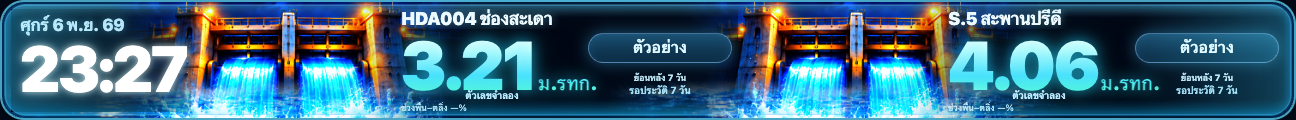
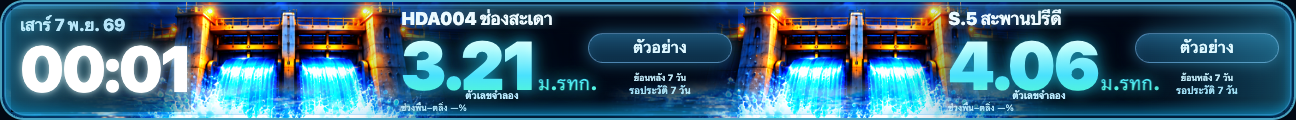
preview(led): three-page before-after alignment approval inspector

Changed region(s): [[0.0, 0.35, 0.3395, 1.0], [0.4938, 0.525, 0.8025, 1.0], [0.0, 0.125, 0.0926, 0.275]]

diff --git a/typography-review-20261106/index.html b/typography-review-20261106/index.html
@@ -24,9 +24,10 @@ button:focus-visible{outline:2px solid white;outline-offset:2px}
 .view img{display:block;max-width:none;image-rendering:auto;border-radius:5px;height:auto}
 .frame{position:relative;max-width:none;width:max-content;margin:3px 0 10px}
 .frame-caption{font-size:11px;letter-spacing:.05em;color:#a4e2fa;margin-bottom:4px;font-weight:850}
+.screen{position:relative;width:max-content}
 .center-guide{pointer-events:none;position:absolute;left:0;right:0;top:50%;border-top:1px dashed rgba(255,212,100,.85);display:none;z-index:2}
 body.guides .center-guide{display:block}
-body.guides .frame{outline:1px dashed #e2bb5499}
+body.guides .screen{outline:1px dashed #e2bb5499}
 
 .detail{font-size:12px;color:#8caec4;margin-top:5px}
 .grid{display:grid;grid-template-columns:repeat(auto-fit,minmax(240px,1fr));gap:12px}
@@ -52,9 +53,9 @@ a{color:#98ebff}
 <button id="zoom" aria-pressed="false">Zoom 3×</button>
 <button id="guides" aria-pressed="false">เส้นกึ่งกลาง</button>
 </section>
-<section class="panel"><div class="meta"><span>PM2.5 · ตัวเลขตัวอย่าง 32 µg/m³</span><span id="pm-label">CURRENT</span></div><div class="view"><img id="pm" src="pm-current-432x40.png" alt="ภาพจำลองหน้า PM2.5 เพื่อเปรียบเทียบตัวเลข" width="432" height="40"></div><div class="detail">ใช้ฉากและแถบสีเดิม เปลี่ยนเฉพาะตัวเลขตัวอย่างเพื่อเปรียบเทียบตำแหน่ง</div></section>
-<section class="panel"><div class="meta"><span>Weather · ตัวเลขตัวอย่าง 31°C</span><span id="weather-label">CURRENT</span></div><div class="view"><img id="weather" src="weather-current-432x40.png" alt="ภาพจำลองหน้า Weather เพื่อเปรียบเทียบตัวเลข" width="432" height="40"></div><div class="detail">ไอคอนเมฆใหม่ปรากฏในภาพ แต่ภาพนี้เป็นเฟรมภาพนิ่งสำหรับเทียบตัวเลข ไม่ใช่ไฟล์ Animation</div></section>
-<section class="panel"><div class="meta"><span>Water Level · ตัวเลขตัวอย่าง 3.21 / 4.06 ม.รทก.</span><span id="water-label">CURRENT</span></div><div class="view"><img id="water" src="water-current-432x40.png" alt="ภาพจำลองหน้าระดับน้ำสองสถานีสำหรับเปรียบเทียบตัวเลข" width="432" height="40"></div><div class="detail">แสดง 2 สถานีซึ่งต้องรักษาพื้นที่ชื่อสถานีและกราฟ จึงไม่ได้ขยายตัวเลขให้เท่า PM2.5</div></section>
+<section class="panel"><div class="meta"><span>PM2.5 · ตัวเลขตัวอย่าง 32 µg/m³</span><span id="pm-label">CURRENT</span></div><div class="view" id="pm-view"><img id="pm" src="pm-current-432x40.png" alt="ภาพจำลองหน้า PM2.5 เพื่อเปรียบเทียบตัวเลข" width="432" height="40"></div><div class="detail">ใช้ฉากและแถบสีเดิม เปลี่ยนเฉพาะตัวเลขตัวอย่างเพื่อเปรียบเทียบตำแหน่ง</div></section>
+<section class="panel"><div class="meta"><span>Weather · ตัวเลขตัวอย่าง 31°C</span><span id="weather-label">CURRENT</span></div><div class="view" id="weather-view"><img id="weather" src="weather-current-432x40.png" alt="ภาพจำลองหน้า Weather เพื่อเปรียบเทียบตัวเลข" width="432" height="40"></div><div class="detail">ไอคอนเมฆใหม่ปรากฏในภาพ แต่ภาพนี้เป็นเฟรมภาพนิ่งสำหรับเทียบตัวเลข ไม่ใช่ไฟล์ Animation</div></section>
+<section class="panel"><div class="meta"><span>Water Level · ตัวเลขตัวอย่าง 3.21 / 4.06 ม.รทก.</span><span id="water-label">CURRENT</span></div><div class="view" id="water-view"><img id="water" src="water-current-432x40.png" alt="ภาพจำลองหน้าระดับน้ำสองสถานีสำหรับเปรียบเทียบตัวเลข" width="432" height="40"></div><div class="detail">แสดง 2 สถานีซึ่งต้องรักษาพื้นที่ชื่อสถานีและกราฟ จึงไม่ได้ขยายตัวเลขให้เท่า PM2.5</div></section>
 <div class="grid">
 <div class="stat"><b>Current</b><p>PM2.5 112px / weight 1000; Weather 92px / weight 900; Water 66px / weight 1000 (ทั้งสามหน้าใช้พิกัดต้นฉบับ 1296×120)</p></div>
 <div class="stat"><b>Aligned (ทดสอบ)</b><p>เสนอ PM2.5 100px / weight 900, Weather 90px / weight 900 และ Water 68px / weight 1000 พร้อมปรับแนวตั้ง แต่คงนาฬิกาและพื้นที่ข้อมูลเดิม</p></div>
@@ -83,13 +84,18 @@ a{color:#98ebff}
     picture.style.width=432*scale+"px";
     picture.style.height=40*scale+"px";
     const line=document.createElement("span");line.className="center-guide";
-    wrap.append(caption,picture,line);
+    const screen=document.createElement("div");
+    screen.className="screen";
+    screen.style.width=(432*scale)+"px";
+    screen.style.height=(40*scale)+"px";
+    screen.append(picture,line);
+    wrap.append(caption,screen);
     return wrap;
   }
   function render(){
     const all=variant==="compare"?["current","aligned"]:[variant];
     for(const subject of subjects){
-      const view=$(subject).parentElement;
+      const view=$(subject+"-view");
       view.replaceChildren(...all.map(k=>frame(subject,k)));
       $(subject+"-label").textContent=variant==="compare"?"BEFORE / AFTER":variant==="current"?"CURRENT":"ALIGNED / PROPOSED";
       // Preserve the id on the first actual comparison image for basic screen readers and QA.
